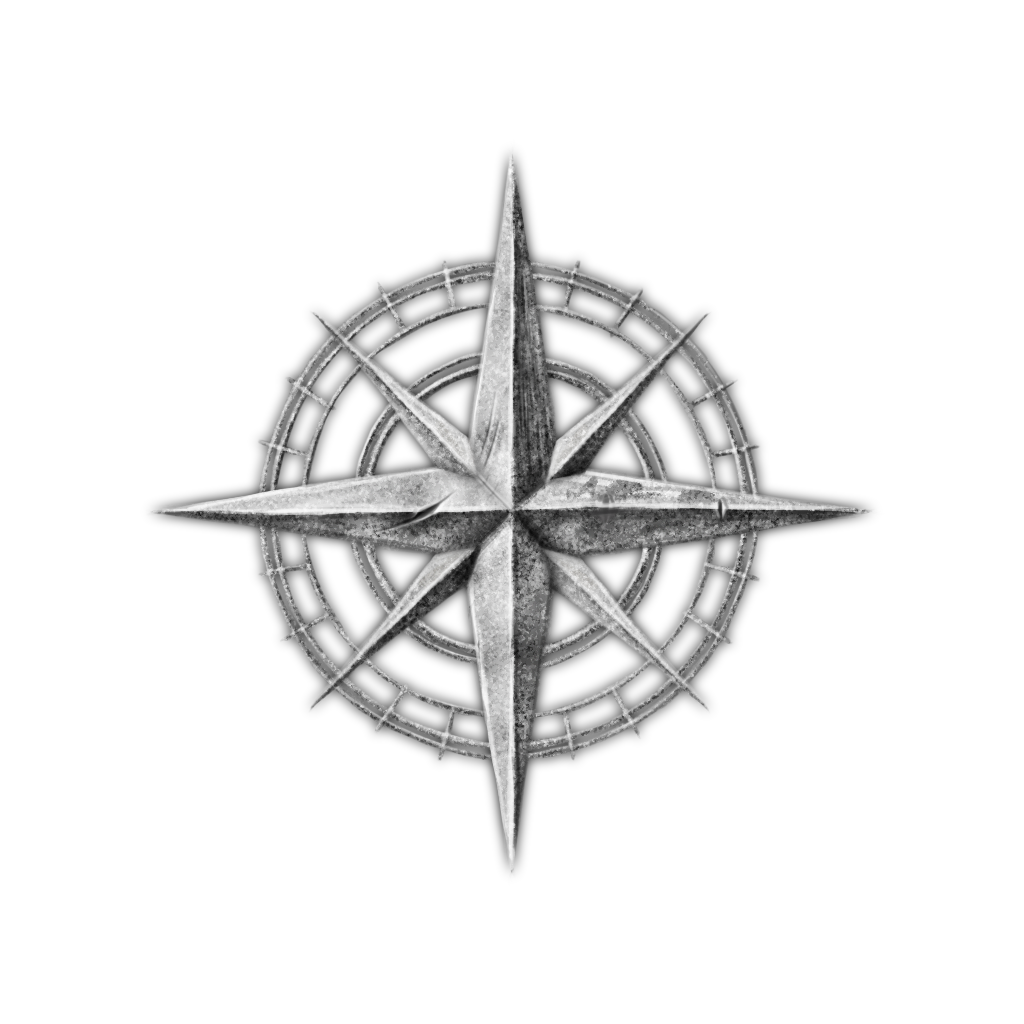
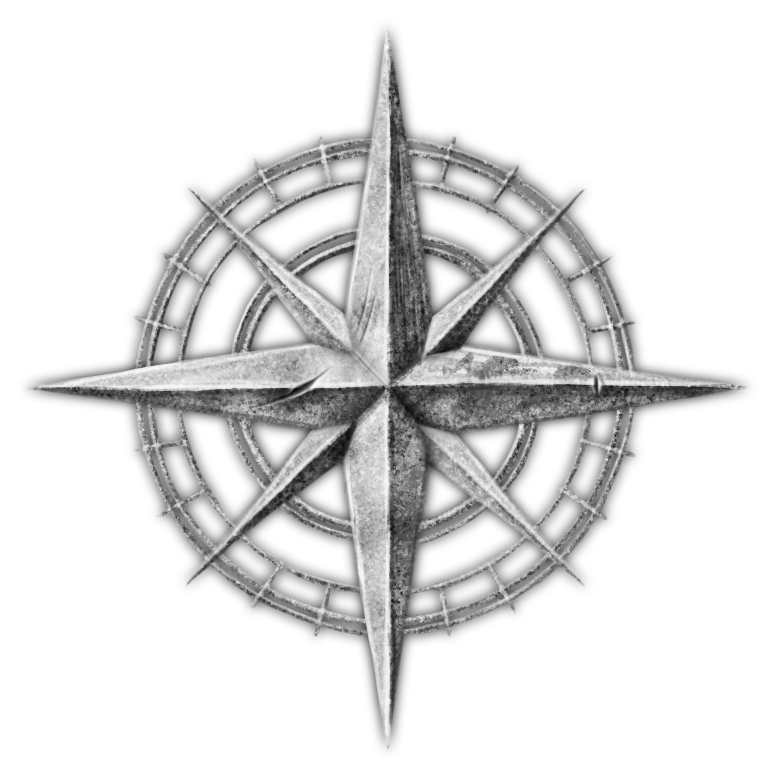
did some stuff + changed compass layout

Changed region(s): [[0.031, 0.031, 0.96, 0.96]]

diff --git a/src/gui/GUIManager.java b/src/gui/GUIManager.java
@@ -3,6 +3,7 @@ package gui;
 import java.awt.Color;
 import java.awt.Font;
 import java.awt.Graphics;
+import java.awt.GraphicsEnvironment;
 import java.awt.GridLayout;
 import java.awt.Image;
 import java.awt.image.BufferedImage;
@@ -83,6 +84,7 @@ public class GUIManager {
 	private JPanel inventoryPanel;
 	private JPanel backgroundImagePanel;
 	private BackgroundImagePanel compassBackgroundPanel;
+	private Font customFont;
 
 	public GUIManager(boolean fullscreen) {
 		initialize(fullscreen);
@@ -95,6 +97,12 @@ public class GUIManager {
 //			UIManager.setLookAndFeel("javax.swing.plaf.nimbus.NimbusLookAndFeel");
 			UIManager.setLookAndFeel(new FlatLightLaf());
 			UIManager.getLookAndFeelDefaults().put("Desktop.background", Color.decode("#FFFFFF"));
+
+			customFont = Font.createFont(Font.TRUETYPE_FONT, new File(HelperFunctions.getResource("Fontasy.ttf")))
+					.deriveFont(70f);
+			GraphicsEnvironment ge = GraphicsEnvironment.getLocalGraphicsEnvironment();
+			ge.registerFont(customFont);
+
 		} catch (Exception e) {
 			e.printStackTrace();
 		}
@@ -149,20 +157,19 @@ public class GUIManager {
 		fieldInfoPanel.setBorder(null);
 		fieldInfoPanel.setBackground(new Color(0, 0, 0, 0));
 		GroupLayout groupLayout = new GroupLayout(frame.getContentPane());
-		groupLayout
-				.setHorizontalGroup(groupLayout.createParallelGroup(Alignment.LEADING)
-						.addGroup(groupLayout.createSequentialGroup().addContainerGap()
-								.addGroup(groupLayout.createParallelGroup(Alignment.LEADING)
-										.addComponent(leftMainPanel, GroupLayout.DEFAULT_SIZE, 564, Short.MAX_VALUE)
-										.addComponent(leftInfoPanel, GroupLayout.DEFAULT_SIZE, 564, Short.MAX_VALUE))
-								.addPreferredGap(ComponentPlacement.RELATED)
-								.addGroup(groupLayout.createParallelGroup(Alignment.LEADING)
-										.addComponent(fieldInfoPanel, GroupLayout.DEFAULT_SIZE, 602, Short.MAX_VALUE)
-										.addComponent(actionPanel, GroupLayout.DEFAULT_SIZE, GroupLayout.DEFAULT_SIZE,
-												Short.MAX_VALUE)
-										.addComponent(playerInfoPanel, GroupLayout.DEFAULT_SIZE,
-												GroupLayout.DEFAULT_SIZE, Short.MAX_VALUE))
-								.addContainerGap()));
+		groupLayout.setHorizontalGroup(groupLayout.createParallelGroup(Alignment.LEADING)
+				.addGroup(groupLayout.createSequentialGroup().addContainerGap()
+						.addGroup(groupLayout.createParallelGroup(Alignment.LEADING)
+								.addComponent(leftMainPanel, GroupLayout.DEFAULT_SIZE, 564, Short.MAX_VALUE)
+								.addComponent(leftInfoPanel, GroupLayout.DEFAULT_SIZE, 564, Short.MAX_VALUE))
+						.addPreferredGap(ComponentPlacement.RELATED)
+						.addGroup(groupLayout.createParallelGroup(Alignment.LEADING)
+								.addComponent(playerInfoPanel, GroupLayout.DEFAULT_SIZE, GroupLayout.DEFAULT_SIZE,
+										Short.MAX_VALUE)
+								.addComponent(fieldInfoPanel, GroupLayout.DEFAULT_SIZE, 602, Short.MAX_VALUE)
+								.addComponent(actionPanel, GroupLayout.DEFAULT_SIZE, GroupLayout.DEFAULT_SIZE,
+										Short.MAX_VALUE))
+						.addContainerGap()));
 		groupLayout.setVerticalGroup(groupLayout.createParallelGroup(Alignment.LEADING)
 				.addGroup(groupLayout.createSequentialGroup().addGap(5)
 						.addGroup(groupLayout.createParallelGroup(Alignment.LEADING)
@@ -170,11 +177,11 @@ public class GUIManager {
 										.addComponent(leftMainPanel, GroupLayout.DEFAULT_SIZE, 580, Short.MAX_VALUE)
 										.addPreferredGap(ComponentPlacement.RELATED)
 										.addComponent(leftInfoPanel, GroupLayout.DEFAULT_SIZE, 164, Short.MAX_VALUE))
-								.addGroup(groupLayout.createSequentialGroup()
-										.addComponent(playerInfoPanel, GroupLayout.PREFERRED_SIZE, 154,
-												GroupLayout.PREFERRED_SIZE)
+								.addGroup(Alignment.TRAILING, groupLayout.createSequentialGroup()
+										.addComponent(playerInfoPanel, GroupLayout.DEFAULT_SIZE, 174, Short.MAX_VALUE)
 										.addPreferredGap(ComponentPlacement.RELATED)
-										.addComponent(fieldInfoPanel, GroupLayout.DEFAULT_SIZE, 308, Short.MAX_VALUE)
+										.addComponent(fieldInfoPanel, GroupLayout.PREFERRED_SIZE, 288,
+												GroupLayout.PREFERRED_SIZE)
 										.addPreferredGap(ComponentPlacement.RELATED).addComponent(actionPanel,
 												GroupLayout.PREFERRED_SIZE, 276, GroupLayout.PREFERRED_SIZE)))
 						.addContainerGap()));
@@ -208,14 +215,14 @@ public class GUIManager {
 			}
 		};
 		fieldInfos.setOpaque(false);
-		fieldInfos.setBounds(6, 16, 589, 286);
+		fieldInfos.setBounds(6, 6, 589, 276);
 		fieldInfos.setBackground(new Color(0f, 0f, 0f, 0.4F));
 		fieldInfos.setBorder(BorderFactory.createEmptyBorder(10, 10, 10, 10));
 		fieldInfos.setLayout(new BoxLayout(fieldInfos, BoxLayout.Y_AXIS));
 		fieldInfoPanel.add(fieldInfos);
 
 		fieldBackground = new JLabel("");
-		fieldBackground.setBounds(0, 0, 599, 308);
+		fieldBackground.setBounds(0, 0, 599, 288);
 		fieldInfoPanel.add(fieldBackground);
 
 		actionButtonPanel = new JPanel();
@@ -227,7 +234,7 @@ public class GUIManager {
 		try {
 			compassBackground = ImageIO.read(new File(HelperFunctions.getResource("images/GUI/Compass.png")));
 			compassBackgroundPanel = new BackgroundImagePanel(
-					GUIHelper.scaleIcon(new ImageIcon(compassBackground), 200).getImage());
+					GUIHelper.scaleIcon(new ImageIcon(compassBackground), 250).getImage());
 		} catch (IOException e) {
 			e.printStackTrace();
 		}
@@ -246,7 +253,7 @@ public class GUIManager {
 		goNorthButton.setBackground(new Color(0, 0, 0, 0));
 		goNorthButton.setContentAreaFilled(false);
 		goNorthButton.setBorder(null);
-		goNorthButton.setBounds(74, 18, 50, 50);
+		goNorthButton.setBounds(100, 42, 50, 50);
 		compassBackgroundPanel.add(goNorthButton);
 
 		goSouthButton = new JButton();
@@ -262,7 +269,7 @@ public class GUIManager {
 		goSouthButton.setBackground(new Color(0, 0, 0, 0));
 		goSouthButton.setContentAreaFilled(false);
 		goSouthButton.setBorder(null);
-		goSouthButton.setBounds(74, 134, 50, 50);
+		goSouthButton.setBounds(100, 158, 50, 50);
 		compassBackgroundPanel.add(goSouthButton);
 
 		goWestButton = new JButton();
@@ -278,7 +285,7 @@ public class GUIManager {
 		goWestButton.setBackground(new Color(0, 0, 0, 0));
 		goWestButton.setContentAreaFilled(false);
 		goWestButton.setBorder(null);
-		goWestButton.setBounds(21, 75, 50, 50);
+		goWestButton.setBounds(47, 99, 50, 50);
 		compassBackgroundPanel.add(goWestButton);
 		goWestButton.setFont(new Font("Tahoma", Font.PLAIN, 28));
 
@@ -295,7 +302,7 @@ public class GUIManager {
 		goEastButton.setBackground(new Color(0, 0, 0, 0));
 		goEastButton.setContentAreaFilled(false);
 		goEastButton.setBorder(null);
-		goEastButton.setBounds(130, 74, 50, 50);
+		goEastButton.setBounds(156, 98, 50, 50);
 		compassBackgroundPanel.add(goEastButton);
 		goEastButton.setFont(new Font("Tahoma", Font.PLAIN, 28));
 
@@ -307,22 +314,19 @@ public class GUIManager {
 		GroupLayout gl_actionPanel = new GroupLayout(actionPanel);
 		gl_actionPanel.setHorizontalGroup(gl_actionPanel.createParallelGroup(Alignment.LEADING).addGroup(gl_actionPanel
 				.createSequentialGroup()
-				.addGroup(gl_actionPanel.createParallelGroup(Alignment.LEADING)
-						.addGroup(gl_actionPanel.createSequentialGroup().addComponent(openInvButton)
-								.addPreferredGap(ComponentPlacement.RELATED, 240, Short.MAX_VALUE))
-						.addGroup(Alignment.TRAILING,
-								gl_actionPanel.createSequentialGroup().addContainerGap()
-										.addComponent(compassBackgroundPanel, GroupLayout.PREFERRED_SIZE,
-												GroupLayout.DEFAULT_SIZE, GroupLayout.PREFERRED_SIZE)
-										.addGap(46)))
+				.addGroup(gl_actionPanel.createParallelGroup(Alignment.LEADING).addComponent(openInvButton)
+						.addGroup(gl_actionPanel.createSequentialGroup().addGap(6).addComponent(compassBackgroundPanel,
+								GroupLayout.PREFERRED_SIZE, GroupLayout.DEFAULT_SIZE, GroupLayout.PREFERRED_SIZE)))
+				.addPreferredGap(ComponentPlacement.RELATED, 46, Short.MAX_VALUE)
 				.addComponent(actionButtonPanel, GroupLayout.PREFERRED_SIZE, 278, GroupLayout.PREFERRED_SIZE)));
 		gl_actionPanel.setVerticalGroup(gl_actionPanel.createParallelGroup(Alignment.LEADING).addGroup(gl_actionPanel
 				.createSequentialGroup()
 				.addGroup(gl_actionPanel.createParallelGroup(Alignment.LEADING)
-						.addGroup(gl_actionPanel.createSequentialGroup().addComponent(openInvButton).addGap(52)
-								.addComponent(compassBackgroundPanel, GroupLayout.PREFERRED_SIZE, 196, Short.MAX_VALUE))
+						.addGroup(gl_actionPanel.createSequentialGroup().addComponent(openInvButton)
+								.addPreferredGap(ComponentPlacement.RELATED)
+								.addComponent(compassBackgroundPanel, GroupLayout.PREFERRED_SIZE, 242, Short.MAX_VALUE))
 						.addComponent(actionButtonPanel, GroupLayout.PREFERRED_SIZE, 140, GroupLayout.PREFERRED_SIZE))
-				.addContainerGap(52, GroupLayout.PREFERRED_SIZE)));
+				.addContainerGap()));
 		actionButtonPanel.setLayout(new GridLayout(5, 1, 0, 5));
 		actionPanel.setLayout(gl_actionPanel);
 
@@ -392,8 +396,8 @@ public class GUIManager {
 		playerInfoHeadline.setBorder(null);
 		playerInfoHeadline.setHorizontalAlignment(SwingConstants.CENTER);
 
-		JPanel playerBarPanel = new JPanel();
-		playerBarPanel.setBackground(new Color(0, 0, 0, 0));
+		JPanel playerBarPanelFirstLine = new JPanel();
+		playerBarPanelFirstLine.setBackground(new Color(0, 0, 0, 0));
 
 		JPanel skillPanel = new JPanel();
 		skillPanel.setBorder(new MatteBorder(1, 1, 1, 1, (Color) new Color(0, 0, 0)));
@@ -450,21 +454,22 @@ public class GUIManager {
 		GroupLayout gl_playerInfoPanel = new GroupLayout(playerInfoPanel);
 		gl_playerInfoPanel.setHorizontalGroup(gl_playerInfoPanel.createParallelGroup(Alignment.LEADING)
 				.addComponent(playerInfoHeadline, GroupLayout.DEFAULT_SIZE, 602, Short.MAX_VALUE)
-				.addComponent(playerBarPanel, GroupLayout.DEFAULT_SIZE, 602, Short.MAX_VALUE)
 				.addGroup(gl_playerInfoPanel.createSequentialGroup()
 						.addComponent(skillPanel, GroupLayout.DEFAULT_SIZE, 285, Short.MAX_VALUE).addGap(30)
-						.addComponent(equippedPanel, GroupLayout.DEFAULT_SIZE, 287, Short.MAX_VALUE)));
+						.addComponent(equippedPanel, GroupLayout.DEFAULT_SIZE, 287, Short.MAX_VALUE))
+				.addComponent(playerBarPanelFirstLine, GroupLayout.DEFAULT_SIZE, 602, Short.MAX_VALUE));
 		gl_playerInfoPanel.setVerticalGroup(gl_playerInfoPanel.createParallelGroup(Alignment.LEADING)
 				.addGroup(gl_playerInfoPanel.createSequentialGroup()
 						.addComponent(playerInfoHeadline, GroupLayout.PREFERRED_SIZE, 26, GroupLayout.PREFERRED_SIZE)
 						.addPreferredGap(ComponentPlacement.UNRELATED)
-						.addComponent(playerBarPanel, GroupLayout.PREFERRED_SIZE, 27, GroupLayout.PREFERRED_SIZE)
-						.addPreferredGap(ComponentPlacement.RELATED)
-						.addGroup(gl_playerInfoPanel.createParallelGroup(Alignment.LEADING)
+						.addComponent(
+								playerBarPanelFirstLine, GroupLayout.PREFERRED_SIZE, 47, GroupLayout.PREFERRED_SIZE)
+						.addPreferredGap(ComponentPlacement.UNRELATED)
+						.addGroup(gl_playerInfoPanel.createParallelGroup(Alignment.TRAILING)
 								.addComponent(skillPanel, GroupLayout.PREFERRED_SIZE, 71, GroupLayout.PREFERRED_SIZE)
 								.addComponent(equippedPanel, GroupLayout.PREFERRED_SIZE, 71,
 										GroupLayout.PREFERRED_SIZE))
-						.addContainerGap(12, Short.MAX_VALUE)));
+						.addContainerGap()));
 
 		lblSkills = new JLabel("Skills") {
 			protected void paintComponent(Graphics g) {
@@ -565,28 +570,33 @@ public class GUIManager {
 
 		levelBar = new JProgressBar();
 		levelBar.setToolTipText("");
-		GroupLayout gl_playerBarPanel = new GroupLayout(playerBarPanel);
-		gl_playerBarPanel.setHorizontalGroup(gl_playerBarPanel.createParallelGroup(Alignment.LEADING)
-				.addGroup(gl_playerBarPanel.createSequentialGroup().addContainerGap().addComponent(healthLabel)
+		GroupLayout gl_playerBarPanelFirstLine = new GroupLayout(playerBarPanelFirstLine);
+		gl_playerBarPanelFirstLine.setHorizontalGroup(gl_playerBarPanelFirstLine.createParallelGroup(Alignment.LEADING)
+				.addGroup(gl_playerBarPanelFirstLine.createSequentialGroup().addContainerGap()
+						.addGroup(gl_playerBarPanelFirstLine.createParallelGroup(Alignment.LEADING)
+								.addComponent(healthLabel).addComponent(levelLabel))
 						.addPreferredGap(ComponentPlacement.RELATED)
-						.addComponent(healthBar, GroupLayout.PREFERRED_SIZE, GroupLayout.DEFAULT_SIZE,
-								GroupLayout.PREFERRED_SIZE)
-						.addPreferredGap(ComponentPlacement.RELATED, 131, Short.MAX_VALUE).addComponent(levelLabel)
-						.addPreferredGap(ComponentPlacement.RELATED)
-						.addComponent(levelBar, GroupLayout.PREFERRED_SIZE, 189, GroupLayout.PREFERRED_SIZE)
-						.addContainerGap()));
-		gl_playerBarPanel.setVerticalGroup(gl_playerBarPanel.createParallelGroup(Alignment.LEADING)
-				.addGroup(gl_playerBarPanel.createSequentialGroup().addGap(5).addGroup(gl_playerBarPanel
-						.createParallelGroup(Alignment.LEADING)
-						.addComponent(healthLabel, GroupLayout.DEFAULT_SIZE, GroupLayout.DEFAULT_SIZE, Short.MAX_VALUE)
-						.addComponent(healthBar, Alignment.TRAILING, GroupLayout.DEFAULT_SIZE, 16, Short.MAX_VALUE)
-						.addGroup(gl_playerBarPanel.createParallelGroup(Alignment.LEADING, false)
-								.addComponent(levelLabel, Alignment.TRAILING, GroupLayout.DEFAULT_SIZE,
+						.addGroup(gl_playerBarPanelFirstLine.createParallelGroup(Alignment.TRAILING, false)
+								.addComponent(levelBar, Alignment.LEADING, GroupLayout.DEFAULT_SIZE,
 										GroupLayout.DEFAULT_SIZE, Short.MAX_VALUE)
+								.addComponent(healthBar, Alignment.LEADING, GroupLayout.DEFAULT_SIZE,
+										GroupLayout.DEFAULT_SIZE, Short.MAX_VALUE))
+						.addContainerGap(370, Short.MAX_VALUE)));
+		gl_playerBarPanelFirstLine.setVerticalGroup(gl_playerBarPanelFirstLine.createParallelGroup(Alignment.LEADING)
+				.addGroup(gl_playerBarPanelFirstLine.createSequentialGroup().addGap(5)
+						.addGroup(gl_playerBarPanelFirstLine.createParallelGroup(Alignment.TRAILING, false)
+								.addComponent(healthLabel, Alignment.LEADING, GroupLayout.DEFAULT_SIZE,
+										GroupLayout.DEFAULT_SIZE, Short.MAX_VALUE)
+								.addComponent(healthBar, Alignment.LEADING, GroupLayout.DEFAULT_SIZE,
+										GroupLayout.DEFAULT_SIZE, Short.MAX_VALUE))
+						.addPreferredGap(ComponentPlacement.RELATED)
+						.addGroup(gl_playerBarPanelFirstLine.createParallelGroup(Alignment.TRAILING)
 								.addComponent(levelBar, GroupLayout.DEFAULT_SIZE, GroupLayout.DEFAULT_SIZE,
-										Short.MAX_VALUE)))
-						.addContainerGap()));
-		playerBarPanel.setLayout(gl_playerBarPanel);
+										Short.MAX_VALUE)
+								.addComponent(levelLabel, GroupLayout.DEFAULT_SIZE, GroupLayout.DEFAULT_SIZE,
+										Short.MAX_VALUE))
+						.addGap(10)));
+		playerBarPanelFirstLine.setLayout(gl_playerBarPanelFirstLine);
 		playerInfoPanel.setLayout(gl_playerInfoPanel);
 		frame.getContentPane().setLayout(groupLayout);
 	}
@@ -733,6 +743,10 @@ public class GUIManager {
 
 	public void setBackgroundImagePanel(JPanel backgroundImagePanel) {
 		this.backgroundImagePanel = backgroundImagePanel;
+	}
+
+	public Font getCustomFont() {
+		return customFont;
 	}
 
 	public void setNavigationEnabled(boolean enabled) {

diff --git a/src/gui/actions/MapFieldHoverAction.java b/src/gui/actions/MapFieldHoverAction.java
@@ -49,6 +49,8 @@ public class MapFieldHoverAction implements MouseListener {
 	public void mouseEntered(MouseEvent e) {
 		this.gameManager.getGuiManager().getLeftInfoContentPanel().removeAll();
 
+		this.gameManager.getGuiManager().getLeftInfoPanel().setBackground(new Color(0, 0, 0, 0.4f));
+
 		this.gameManager.getGuiManager().getLeftInfoContentPanel().setBackground(new Color(0, 0, 0, 0));
 		GroupLayout gl_leftInfoPanel = new GroupLayout(this.gameManager.getGuiManager().getLeftInfoPanel());
 		gl_leftInfoPanel.setHorizontalGroup(gl_leftInfoPanel.createParallelGroup(Alignment.LEADING)
@@ -81,11 +83,14 @@ public class MapFieldHoverAction implements MouseListener {
 		mapFieldInfoPanel.setLayout(new BoxLayout(mapFieldInfoPanel, BoxLayout.Y_AXIS));
 
 		JLabel name = new JLabel(this.mapField.getBiom().getName());
-		name.setFont(new Font("Dialog", Font.BOLD, 16));
+		name.setForeground(Color.WHITE);
+		name.setFont(new Font(this.gameManager.getGuiManager().getCustomFont().getFamily(), Font.PLAIN, 40));
+//		name.setFont(new Font("Dialog", Font.BOLD, 16));
 		name.setBorder(BorderFactory.createEmptyBorder(0, 0, 5, 0));
 		mapFieldInfoPanel.add(name);
 
 		JLabel info = new JLabel();
+		info.setForeground(Color.WHITE);
 		info.setFont(new Font("Dialog", Font.PLAIN, 14));
 
 		Challenge challenge = this.mapField.getChallenge();

diff --git a/src/basic/ResourceManager.java b/src/basic/ResourceManager.java
@@ -142,8 +142,8 @@ public class ResourceManager {
 
 				String label = new String(jsonItem.get("label").toString().getBytes(), StandardCharsets.UTF_8);
 
-				Outfit item = new Outfit(keyName, label, Integer.valueOf(jsonItem.get("armor").toString()),
-						Integer.valueOf(jsonItem.get("value").toString()),
+				Outfit item = new Outfit(keyName, label, Integer.valueOf(jsonItem.get("value").toString()),
+						Integer.valueOf(jsonItem.get("armor").toString()),
 						Integer.valueOf(jsonItem.get("chance").toString()),
 						Integer.valueOf(jsonItem.get("st").toString()), Integer.valueOf(jsonItem.get("pe").toString()),
 						Integer.valueOf(jsonItem.get("en").toString()), Integer.valueOf(jsonItem.get("ch").toString()),

diff --git a/src/gui/actions/MapShowAction.java b/src/gui/actions/MapShowAction.java
@@ -50,6 +50,7 @@ public class MapShowAction implements ActionListener {
 
 		this.gameManager.getGuiManager().getLeftContentPanel().setBackground(new Color(0, 0, 0, 0));
 		this.gameManager.getGuiManager().getMapPanel().setBackground(new Color(0, 0, 0, 0));
+		this.gameManager.getGuiManager().getMapPanel().setOpaque(true);
 		this.gameManager.getGuiManager().getMapPanel()
 				.setLayout(new GridLayout(Config.MAP_SIZEX, Config.MAP_SIZEY, 1, 1));
 
